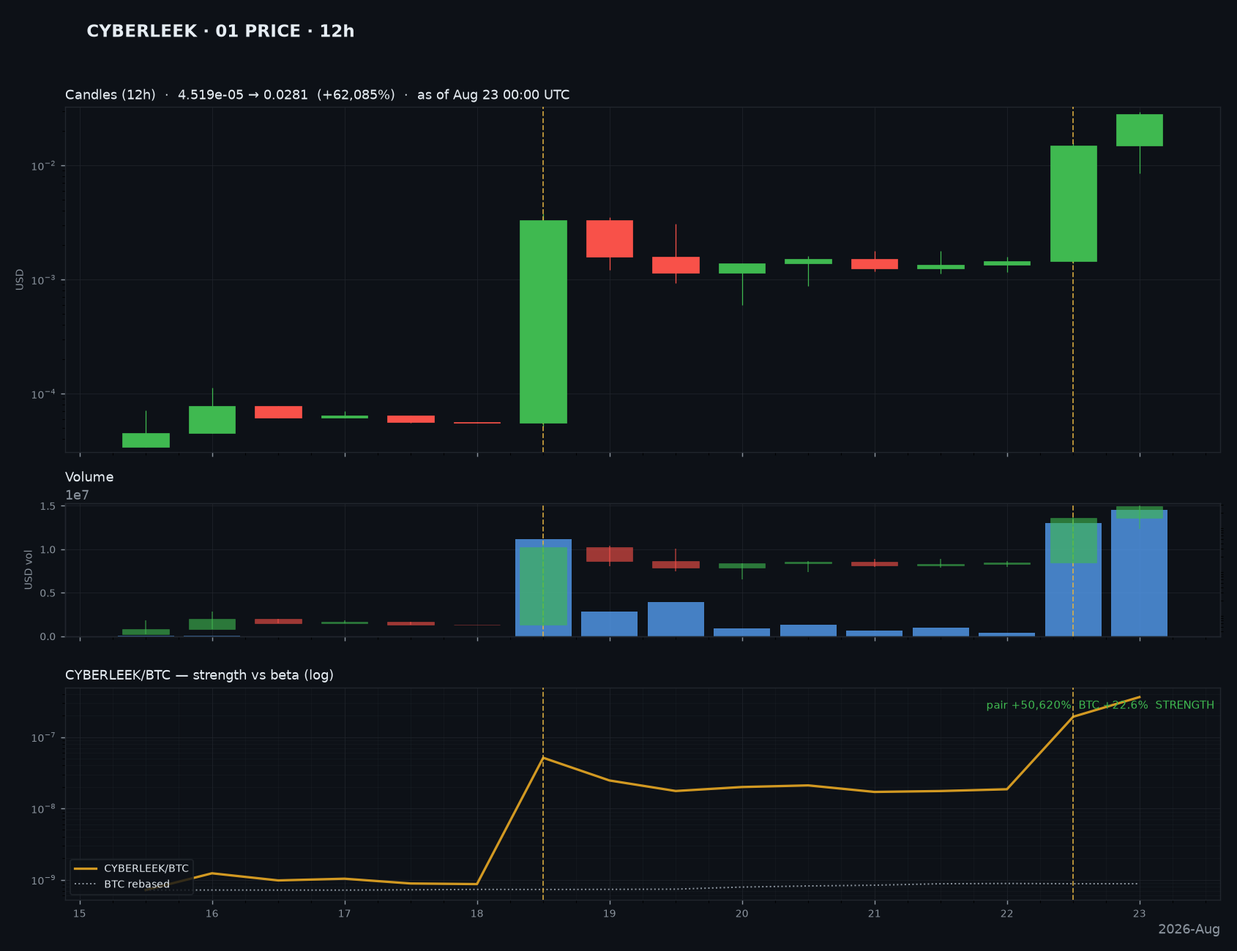
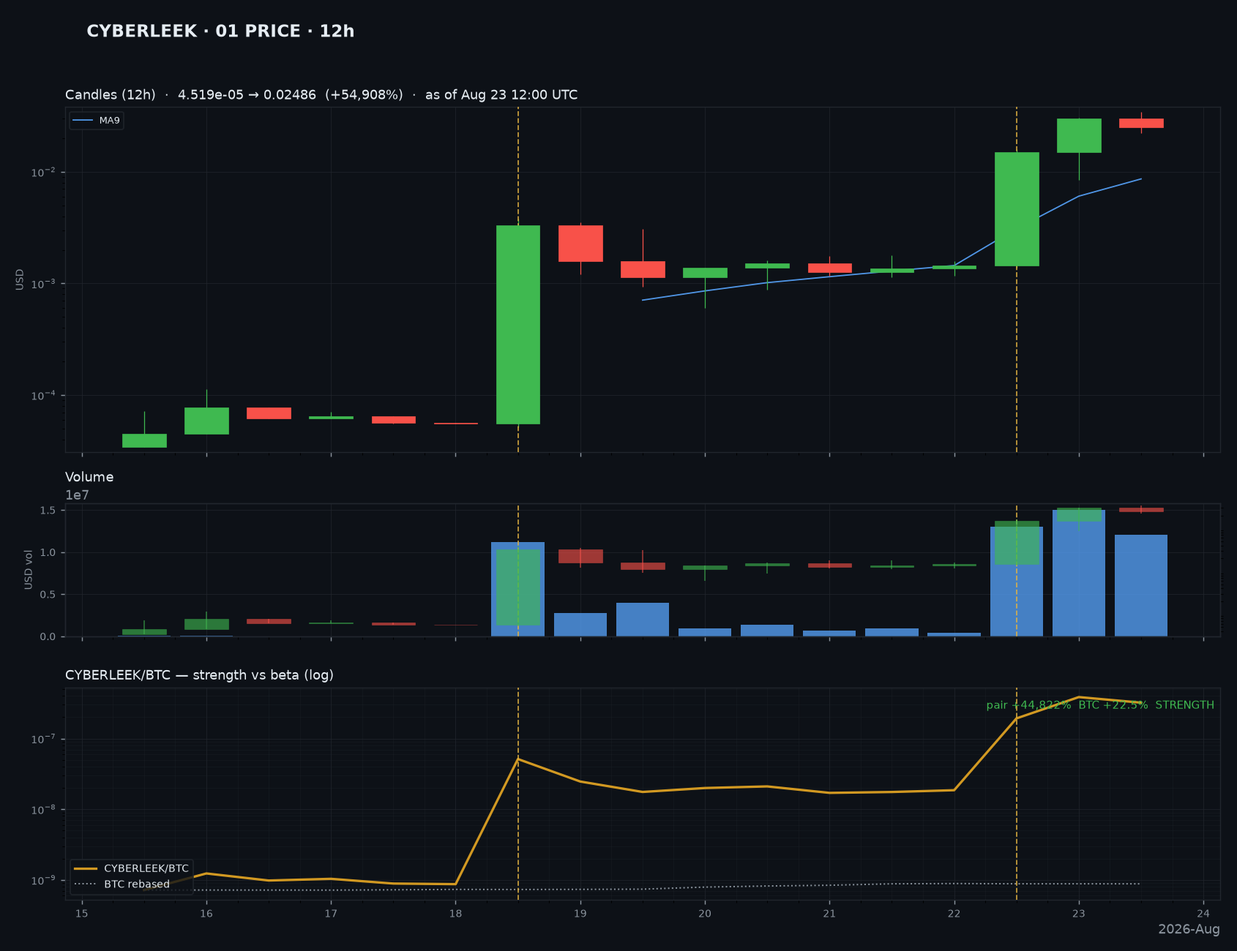
CYBERLEEK refreshed: 15m timeframe + MA9/21/50, price through Aug 23

diff --git a/index.html b/index.html
@@ -41,10 +41,10 @@ figcaption{color:#8b949e;font-size:.78rem;margin-bottom:.5rem;display:flex;justi
 <h1>⚡ Alt Analysis</h1>
 <p class="meta">Alpha Data Room · updated 2026-08-23 · consistent chart suite per token
 (01 price · 02 attention · 03 who · 04 dynamics · 05 streams) · price log-scale,
-anchored to first traded bar · price candles overlaid on every panel · build 1787486199</p>
+anchored to first traded bar · price candles overlaid on every panel · build 1787506467</p>
 
 <div class="bar"><span class="lbl">Token:</span><button class="tok" data-token="CYBERLEEK">CYBERLEEK</button><button class="tok" data-token="STONKBROKER">STONKBROKER</button><button class="tok" data-token="YOMOGI">YOMOGI</button><button class="tok" data-token="NEKO">NEKO</button>
-<span class="sep">|</span><span class="lbl">Timeframe:</span><button class="tf" data-tf="1h">1h</button><button class="tf" data-tf="4h">4h</button><button class="tf" data-tf="6h">6h</button><button class="tf" data-tf="12h">12h</button><button class="tf" data-tf="daily">daily</button><button class="tf" data-tf="special">special</button><button class="tf" data-tf="all">all</button>
+<span class="sep">|</span><span class="lbl">Timeframe:</span><button class="tf" data-tf="15m">15m</button><button class="tf" data-tf="1h">1h</button><button class="tf" data-tf="4h">4h</button><button class="tf" data-tf="6h">6h</button><button class="tf" data-tf="12h">12h</button><button class="tf" data-tf="daily">daily</button><button class="tf" data-tf="special">special</button><button class="tf" data-tf="all">all</button>
 <span class="sep">|</span><span class="lbl">View:</span>
 <button class="vw active" data-view="static">all charts</button>
 <button class="vw" data-view="interactive">interactive (hover)</button>
@@ -53,7 +53,7 @@ anchored to first traded bar · price candles overlaid on every panel · build 1
 <div id="interactive-wrap"><iframe id="ifr" src="" loading="lazy"></iframe>
 <p class="meta" style="margin:.4rem 0 0">Hover any bar or candle for its timestamp and all
 values in that bin · drag to zoom · double-click to reset</p></div>
-<div id="figs"><figure class="chart" data-token="CYBERLEEK" data-tf="12h"><figcaption>01_price_12h<span class="tag">12h</span></figcaption><a href="charts/CYBERLEEK_01_price_12h.png" target="_blank"><img src="charts/CYBERLEEK_01_price_12h.png" loading="lazy" alt="CYBERLEEK_01_price_12h.png"></a></figure><figure class="chart" data-token="CYBERLEEK" data-tf="1h"><figcaption>01_price_1h<span class="tag">1h</span></figcaption><a href="charts/CYBERLEEK_01_price_1h.png" target="_blank"><img src="charts/CYBERLEEK_01_price_1h.png" loading="lazy" alt="CYBERLEEK_01_price_1h.png"></a></figure><figure class="chart" data-token="CYBERLEEK" data-tf="4h"><figcaption>01_price_4h<span class="tag">4h</span></figcaption><a href="charts/CYBERLEEK_01_price_4h.png" target="_blank"><img src="charts/CYBERLEEK_01_price_4h.png" loading="lazy" alt="CYBERLEEK_01_price_4h.png"></a></figure><figure class="chart" data-token="CYBERLEEK" data-tf="6h"><figcaption>01_price_6h<span class="tag">6h</span></figcaption><a href="charts/CYBERLEEK_01_price_6h.png" target="_blank"><img src="charts/CYBERLEEK_01_price_6h.png" loading="lazy" alt="CYBERLEEK_01_price_6h.png"></a></figure><figure class="chart" data-token="CYBERLEEK" data-tf="daily"><figcaption>01_price_daily<span class="tag">daily</span></figcaption><a href="charts/CYBERLEEK_01_price_daily.png" target="_blank"><img src="charts/CYBERLEEK_01_price_daily.png" loading="lazy" alt="CYBERLEEK_01_price_daily.png"></a></figure><figure class="chart" data-token="CYBERLEEK" data-tf="12h"><figcaption>02_attention_12h<span class="tag">12h</span></figcaption><a href="charts/CYBERLEEK_02_attention_12h.png" target="_blank"><img src="charts/CYBERLEEK_02_attention_12h.png" loading="lazy" alt="CYBERLEEK_02_attention_12h.png"></a></figure><figure class="chart" data-token="CYBERLEEK" data-tf="1h"><figcaption>02_attention_1h<span class="tag">1h</span></figcaption><a href="charts/CYBERLEEK_02_attention_1h.png" target="_blank"><img src="charts/CYBERLEEK_02_attention_1h.png" loading="lazy" alt="CYBERLEEK_02_attention_1h.png"></a></figure><figure class="chart" data-token="CYBERLEEK" data-tf="4h"><figcaption>02_attention_4h<span class="tag">4h</span></figcaption><a href="charts/CYBERLEEK_02_attention_4h.png" target="_blank"><img src="charts/CYBERLEEK_02_attention_4h.png" loading="lazy" alt="CYBERLEEK_02_attention_4h.png"></a></figure><figure class="chart" data-token="CYBERLEEK" data-tf="6h"><figcaption>02_attention_6h<span class="tag">6h</span></figcaption><a href="charts/CYBERLEEK_02_attention_6h.png" target="_blank"><img src="charts/CYBERLEEK_02_attention_6h.png" loading="lazy" alt="CYBERLEEK_02_attention_6h.png"></a></figure><figure class="chart" data-token="CYBERLEEK" data-tf="daily"><figcaption>02_attention_daily<span class="tag">daily</span></figcaption><a href="charts/CYBERLEEK_02_attention_daily.png" target="_blank"><img src="charts/CYBERLEEK_02_attention_daily.png" loading="lazy" alt="CYBERLEEK_02_attention_daily.png"></a></figure><figure class="chart" data-token="CYBERLEEK" data-tf="12h"><figcaption>03_who_12h<span class="tag">12h</span></figcaption><a href="charts/CYBERLEEK_03_who_12h.png" target="_blank"><img src="charts/CYBERLEEK_03_who_12h.png" loading="lazy" alt="CYBERLEEK_03_who_12h.png"></a></figure><figure class="chart" data-token="CYBERLEEK" data-tf="1h"><figcaption>03_who_1h<span class="tag">1h</span></figcaption><a href="charts/CYBERLEEK_03_who_1h.png" target="_blank"><img src="charts/CYBERLEEK_03_who_1h.png" loading="lazy" alt="CYBERLEEK_03_who_1h.png"></a></figure><figure class="chart" data-token="CYBERLEEK" data-tf="4h"><figcaption>03_who_4h<span class="tag">4h</span></figcaption><a href="charts/CYBERLEEK_03_who_4h.png" target="_blank"><img src="charts/CYBERLEEK_03_who_4h.png" loading="lazy" alt="CYBERLEEK_03_who_4h.png"></a></figure><figure class="chart" data-token="CYBERLEEK" data-tf="6h"><figcaption>03_who_6h<span class="tag">6h</span></figcaption><a href="charts/CYBERLEEK_03_who_6h.png" target="_blank"><img src="charts/CYBERLEEK_03_who_6h.png" loading="lazy" alt="CYBERLEEK_03_who_6h.png"></a></figure><figure class="chart" data-token="CYBERLEEK" data-tf="daily"><figcaption>03_who_daily<span class="tag">daily</span></figcaption><a href="charts/CYBERLEEK_03_who_daily.png" target="_blank"><img src="charts/CYBERLEEK_03_who_daily.png" loading="lazy" alt="CYBERLEEK_03_who_daily.png"></a></figure><figure class="chart" data-token="CYBERLEEK" data-tf="12h"><figcaption>04_dynamics_12h<span class="tag">12h</span></figcaption><a href="charts/CYBERLEEK_04_dynamics_12h.png" target="_blank"><img src="charts/CYBERLEEK_04_dynamics_12h.png" loading="lazy" alt="CYBERLEEK_04_dynamics_12h.png"></a></figure><figure class="chart" data-token="CYBERLEEK" data-tf="1h"><figcaption>04_dynamics_1h<span class="tag">1h</span></figcaption><a href="charts/CYBERLEEK_04_dynamics_1h.png" target="_blank"><img src="charts/CYBERLEEK_04_dynamics_1h.png" loading="lazy" alt="CYBERLEEK_04_dynamics_1h.png"></a></figure><figure class="chart" data-token="CYBERLEEK" data-tf="4h"><figcaption>04_dynamics_4h<span class="tag">4h</span></figcaption><a href="charts/CYBERLEEK_04_dynamics_4h.png" target="_blank"><img src="charts/CYBERLEEK_04_dynamics_4h.png" loading="lazy" alt="CYBERLEEK_04_dynamics_4h.png"></a></figure><figure class="chart" data-token="CYBERLEEK" data-tf="6h"><figcaption>04_dynamics_6h<span class="tag">6h</span></figcaption><a href="charts/CYBERLEEK_04_dynamics_6h.png" target="_blank"><img src="charts/CYBERLEEK_04_dynamics_6h.png" loading="lazy" alt="CYBERLEEK_04_dynamics_6h.png"></a></figure><figure class="chart" data-token="CYBERLEEK" data-tf="daily"><figcaption>04_dynamics_daily<span class="tag">daily</span></figcaption><a href="charts/CYBERLEEK_04_dynamics_daily.png" target="_blank"><img src="charts/CYBERLEEK_04_dynamics_daily.png" loading="lazy" alt="CYBERLEEK_04_dynamics_daily.png"></a></figure><figure class="chart" data-token="CYBERLEEK" data-tf="12h"><figcaption>05_streams_12h<span class="tag">12h</span></figcaption><a href="charts/CYBERLEEK_05_streams_12h.png" target="_blank"><img src="charts/CYBERLEEK_05_streams_12h.png" loading="lazy" alt="CYBERLEEK_05_streams_12h.png"></a></figure><figure class="chart" data-token="CYBERLEEK" data-tf="1h"><figcaption>05_streams_1h<span class="tag">1h</span></figcaption><a href="charts/CYBERLEEK_05_streams_1h.png" target="_blank"><img src="charts/CYBERLEEK_05_streams_1h.png" loading="lazy" alt="CYBERLEEK_05_streams_1h.png"></a></figure><figure class="chart" data-token="CYBERLEEK" data-tf="4h"><figcaption>05_streams_4h<span class="tag">4h</span></figcaption><a href="charts/CYBERLEEK_05_streams_4h.png" target="_blank"><img src="charts/CYBERLEEK_05_streams_4h.png" loading="lazy" alt="CYBERLEEK_05_streams_4h.png"></a></figure><figure class="chart" data-token="CYBERLEEK" data-tf="6h"><figcaption>05_streams_6h<span class="tag">6h</span></figcaption><a href="charts/CYBERLEEK_05_streams_6h.png" target="_blank"><img src="charts/CYBERLEEK_05_streams_6h.png" loading="lazy" alt="CYBERLEEK_05_streams_6h.png"></a></figure><figure class="chart" data-token="CYBERLEEK" data-tf="daily"><figcaption>05_streams_daily<span class="tag">daily</span></figcaption><a href="charts/CYBERLEEK_05_streams_daily.png" target="_blank"><img src="charts/CYBERLEEK_05_streams_daily.png" loading="lazy" alt="CYBERLEEK_05_streams_daily.png"></a></figure><figure class="chart" data-token="CYBERLEEK" data-tf="special"><figcaption>h12_legtiming<span class="tag">special</span></figcaption><a href="charts/CYBERLEEK_h12_legtiming.png" target="_blank"><img src="charts/CYBERLEEK_h12_legtiming.png" loading="lazy" alt="CYBERLEEK_h12_legtiming.png"></a></figure><figure class="chart" data-token="CYBERLEEK" data-tf="special"><figcaption>newsline<span class="tag">special</span></figcaption><a href="charts/CYBERLEEK_newsline.png" target="_blank"><img src="charts/CYBERLEEK_newsline.png" loading="lazy" alt="CYBERLEEK_newsline.png"></a></figure><figure class="chart" data-token="CYBERLEEK" data-tf="4h"><figcaption>twostream_4h<span class="tag">4h</span></figcaption><a href="charts/CYBERLEEK_twostream_4h.png" target="_blank"><img src="charts/CYBERLEEK_twostream_4h.png" loading="lazy" alt="CYBERLEEK_twostream_4h.png"></a></figure><figure class="chart" data-token="STONKBROKER" data-tf="12h"><figcaption>01_price_12h<span class="tag">12h</span></figcaption><a href="charts/STONKBROKER_01_price_12h.png" target="_blank"><img src="charts/STONKBROKER_01_price_12h.png" loading="lazy" alt="STONKBROKER_01_price_12h.png"></a></figure><figure class="chart" data-token="STONKBROKER" data-tf="1h"><figcaption>01_price_1h<span class="tag">1h</span></figcaption><a href="charts/STONKBROKER_01_price_1h.png" target="_blank"><img src="charts/STONKBROKER_01_price_1h.png" loading="lazy" alt="STONKBROKER_01_price_1h.png"></a></figure><figure class="chart" data-token="STONKBROKER" data-tf="4h"><figcaption>01_price_4h<span class="tag">4h</span></figcaption><a href="charts/STONKBROKER_01_price_4h.png" target="_blank"><img src="charts/STONKBROKER_01_price_4h.png" loading="lazy" alt="STONKBROKER_01_price_4h.png"></a></figure><figure class="chart" data-token="STONKBROKER" data-tf="6h"><figcaption>01_price_6h<span class="tag">6h</span></figcaption><a href="charts/STONKBROKER_01_price_6h.png" target="_blank"><img src="charts/STONKBROKER_01_price_6h.png" loading="lazy" alt="STONKBROKER_01_price_6h.png"></a></figure><figure class="chart" data-token="STONKBROKER" data-tf="daily"><figcaption>01_price_daily<span class="tag">daily</span></figcaption><a href="charts/STONKBROKER_01_price_daily.png" target="_blank"><img src="charts/STONKBROKER_01_price_daily.png" loading="lazy" alt="STONKBROKER_01_price_daily.png"></a></figure><figure class="chart" data-token="STONKBROKER" data-tf="12h"><figcaption>02_attention_12h<span class="tag">12h</span></figcaption><a href="charts/STONKBROKER_02_attention_12h.png" target="_blank"><img src="charts/STONKBROKER_02_attention_12h.png" loading="lazy" alt="STONKBROKER_02_attention_12h.png"></a></figure><figure class="chart" data-token="STONKBROKER" data-tf="1h"><figcaption>02_attention_1h<span class="tag">1h</span></figcaption><a href="charts/STONKBROKER_02_attention_1h.png" target="_blank"><img src="charts/STONKBROKER_02_attention_1h.png" loading="lazy" alt="STONKBROKER_02_attention_1h.png"></a></figure><figure class="chart" data-token="STONKBROKER" data-tf="4h"><figcaption>02_attention_4h<span class="tag">4h</span></figcaption><a href="charts/STONKBROKER_02_attention_4h.png" target="_blank"><img src="charts/STONKBROKER_02_attention_4h.png" loading="lazy" alt="STONKBROKER_02_attention_4h.png"></a></figure><figure class="chart" data-token="STONKBROKER" data-tf="6h"><figcaption>02_attention_6h<span class="tag">6h</span></figcaption><a href="charts/STONKBROKER_02_attention_6h.png" target="_blank"><img src="charts/STONKBROKER_02_attention_6h.png" loading="lazy" alt="STONKBROKER_02_attention_6h.png"></a></figure><figure class="chart" data-token="STONKBROKER" data-tf="daily"><figcaption>02_attention_daily<span class="tag">daily</span></figcaption><a href="charts/STONKBROKER_02_attention_daily.png" target="_blank"><img src="charts/STONKBROKER_02_attention_daily.png" loading="lazy" alt="STONKBROKER_02_attention_daily.png"></a></figure><figure class="chart" data-token="STONKBROKER" data-tf="12h"><figcaption>03_who_12h<span class="tag">12h</span></figcaption><a href="charts/STONKBROKER_03_who_12h.png" target="_blank"><img src="charts/STONKBROKER_03_who_12h.png" loading="lazy" alt="STONKBROKER_03_who_12h.png"></a></figure><figure class="chart" data-token="STONKBROKER" data-tf="1h"><figcaption>03_who_1h<span class="tag">1h</span></figcaption><a href="charts/STONKBROKER_03_who_1h.png" target="_blank"><img src="charts/STONKBROKER_03_who_1h.png" loading="lazy" alt="STONKBROKER_03_who_1h.png"></a></figure><figure class="chart" data-token="STONKBROKER" data-tf="4h"><figcaption>03_who_4h<span class="tag">4h</span></figcaption><a href="charts/STONKBROKER_03_who_4h.png" target="_blank"><img src="charts/STONKBROKER_03_who_4h.png" loading="lazy" alt="STONKBROKER_03_who_4h.png"></a></figure><figure class="chart" data-token="STONKBROKER" data-tf="6h"><figcaption>03_who_6h<span class="tag">6h</span></figcaption><a href="charts/STONKBROKER_03_who_6h.png" target="_blank"><img src="charts/STONKBROKER_03_who_6h.png" loading="lazy" alt="STONKBROKER_03_who_6h.png"></a></figure><figure class="chart" data-token="STONKBROKER" data-tf="daily"><figcaption>03_who_daily<span class="tag">daily</span></figcaption><a href="charts/STONKBROKER_03_who_daily.png" target="_blank"><img src="charts/STONKBROKER_03_who_daily.png" loading="lazy" alt="STONKBROKER_03_who_daily.png"></a></figure><figure class="chart" data-token="STONKBROKER" data-tf="12h"><figcaption>04_dynamics_12h<span class="tag">12h</span></figcaption><a href="charts/STONKBROKER_04_dynamics_12h.png" target="_blank"><img src="charts/STONKBROKER_04_dynamics_12h.png" loading="lazy" alt="STONKBROKER_04_dynamics_12h.png"></a></figure><figure class="chart" data-token="STONKBROKER" data-tf="1h"><figcaption>04_dynamics_1h<span class="tag">1h</span></figcaption><a href="charts/STONKBROKER_04_dynamics_1h.png" target="_blank"><img src="charts/STONKBROKER_04_dynamics_1h.png" loading="lazy" alt="STONKBROKER_04_dynamics_1h.png"></a></figure><figure class="chart" data-token="STONKBROKER" data-tf="4h"><figcaption>04_dynamics_4h<span class="tag">4h</span></figcaption><a href="charts/STONKBROKER_04_dynamics_4h.png" target="_blank"><img src="charts/STONKBROKER_04_dynamics_4h.png" loading="lazy" alt="STONKBROKER_04_dynamics_4h.png"></a></figure><figure class="chart" data-token="STONKBROKER" data-tf="6h"><figcaption>04_dynamics_6h<span class="tag">6h</span></figcaption><a href="charts/STONKBROKER_04_dynamics_6h.png" target="_blank"><img src="charts/STONKBROKER_04_dynamics_6h.png" loading="lazy" alt="STONKBROKER_04_dynamics_6h.png"></a></figure><figure class="chart" data-token="STONKBROKER" data-tf="daily"><figcaption>04_dynamics_daily<span class="tag">daily</span></figcaption><a href="charts/STONKBROKER_04_dynamics_daily.png" target="_blank"><img src="charts/STONKBROKER_04_dynamics_daily.png" loading="lazy" alt="STONKBROKER_04_dynamics_daily.png"></a></figure><figure class="chart" data-token="YOMOGI" data-tf="1h"><figcaption>01_price_1h<span class="tag">1h</span></figcaption><a href="charts/YOMOGI_01_price_1h.png" target="_blank"><img src="charts/YOMOGI_01_price_1h.png" loading="lazy" alt="YOMOGI_01_price_1h.png"></a></figure><figure class="chart" data-token="YOMOGI" data-tf="1h"><figcaption>02_attention_1h<span class="tag">1h</span></figcaption><a href="charts/YOMOGI_02_attention_1h.png" target="_blank"><img src="charts/YOMOGI_02_attention_1h.png" loading="lazy" alt="YOMOGI_02_attention_1h.png"></a></figure><figure class="chart" data-token="YOMOGI" data-tf="1h"><figcaption>03_who_1h<span class="tag">1h</span></figcaption><a href="charts/YOMOGI_03_who_1h.png" target="_blank"><img src="charts/YOMOGI_03_who_1h.png" loading="lazy" alt="YOMOGI_03_who_1h.png"></a></figure><figure class="chart" data-token="YOMOGI" data-tf="1h"><figcaption>04_dynamics_1h<span class="tag">1h</span></figcaption><a href="charts/YOMOGI_04_dynamics_1h.png" target="_blank"><img src="charts/YOMOGI_04_dynamics_1h.png" loading="lazy" alt="YOMOGI_04_dynamics_1h.png"></a></figure><figure class="chart" data-token="YOMOGI" data-tf="1h"><figcaption>05_streams_1h<span class="tag">1h</span></figcaption><a href="charts/YOMOGI_05_streams_1h.png" target="_blank"><img src="charts/YOMOGI_05_streams_1h.png" loading="lazy" alt="YOMOGI_05_streams_1h.png"></a></figure><figure class="chart" data-token="YOMOGI" data-tf="1h"><figcaption>content_1h<span class="tag">1h</span></figcaption><a href="charts/YOMOGI_content_1h.png" target="_blank"><img src="charts/YOMOGI_content_1h.png" loading="lazy" alt="YOMOGI_content_1h.png"></a></figure><figure class="chart" data-token="YOMOGI" data-tf="1h"><figcaption>social_1d_1h<span class="tag">1h</span></figcaption><a href="charts/YOMOGI_social_1d_1h.png" target="_blank"><img src="charts/YOMOGI_social_1d_1h.png" loading="lazy" alt="YOMOGI_social_1d_1h.png"></a></figure><figure class="chart" data-token="YOMOGI" data-tf="1h"><figcaption>twostream_1h<span class="tag">1h</span></figcaption><a href="charts/YOMOGI_twostream_1h.png" target="_blank"><img src="charts/YOMOGI_twostream_1h.png" loading="lazy" alt="YOMOGI_twostream_1h.png"></a></figure><figure class="chart" data-token="NEKO" data-tf="1h"><figcaption>01_price_1h<span class="tag">1h</span></figcaption><a href="charts/NEKO_01_price_1h.png" target="_blank"><img src="charts/NEKO_01_price_1h.png" loading="lazy" alt="NEKO_01_price_1h.png"></a></figure><figure class="chart" data-token="NEKO" data-tf="4h"><figcaption>01_price_4h<span class="tag">4h</span></figcaption><a href="charts/NEKO_01_price_4h.png" target="_blank"><img src="charts/NEKO_01_price_4h.png" loading="lazy" alt="NEKO_01_price_4h.png"></a></figure><figure class="chart" data-token="NEKO" data-tf="1h"><figcaption>02_attention_1h<span class="tag">1h</span></figcaption><a href="charts/NEKO_02_attention_1h.png" target="_blank"><img src="charts/NEKO_02_attention_1h.png" loading="lazy" alt="NEKO_02_attention_1h.png"></a></figure><figure class="chart" data-token="NEKO" data-tf="4h"><figcaption>02_attention_4h<span class="tag">4h</span></figcaption><a href="charts/NEKO_02_attention_4h.png" target="_blank"><img src="charts/NEKO_02_attention_4h.png" loading="lazy" alt="NEKO_02_attention_4h.png"></a></figure><figure class="chart" data-token="NEKO" data-tf="1h"><figcaption>03_who_1h<span class="tag">1h</span></figcaption><a href="charts/NEKO_03_who_1h.png" target="_blank"><img src="charts/NEKO_03_who_1h.png" loading="lazy" alt="NEKO_03_who_1h.png"></a></figure><figure class="chart" data-token="NEKO" data-tf="4h"><figcaption>03_who_4h<span class="tag">4h</span></figcaption><a href="charts/NEKO_03_who_4h.png" target="_blank"><img src="charts/NEKO_03_who_4h.png" loading="lazy" alt="NEKO_03_who_4h.png"></a></figure><figure class="chart" data-token="NEKO" data-tf="1h"><figcaption>04_dynamics_1h<span class="tag">1h</span></figcaption><a href="charts/NEKO_04_dynamics_1h.png" target="_blank"><img src="charts/NEKO_04_dynamics_1h.png" loading="lazy" alt="NEKO_04_dynamics_1h.png"></a></figure><figure class="chart" data-token="NEKO" data-tf="4h"><figcaption>04_dynamics_4h<span class="tag">4h</span></figcaption><a href="charts/NEKO_04_dynamics_4h.png" target="_blank"><img src="charts/NEKO_04_dynamics_4h.png" loading="lazy" alt="NEKO_04_dynamics_4h.png"></a></figure><figure class="chart" data-token="NEKO" data-tf="1h"><figcaption>content_1h<span class="tag">1h</span></figcaption><a href="charts/NEKO_content_1h.png" target="_blank"><img src="charts/NEKO_content_1h.png" loading="lazy" alt="NEKO_content_1h.png"></a></figure><figure class="chart" data-token="NEKO" data-tf="1h"><figcaption>social_2d_1h<span class="tag">1h</span></figcaption><a href="charts/NEKO_social_2d_1h.png" target="_blank"><img src="charts/NEKO_social_2d_1h.png" loading="lazy" alt="NEKO_social_2d_1h.png"></a></figure></div>
+<div id="figs"><figure class="chart" data-token="CYBERLEEK" data-tf="12h"><figcaption>01_price_12h<span class="tag">12h</span></figcaption><a href="charts/CYBERLEEK_01_price_12h.png" target="_blank"><img src="charts/CYBERLEEK_01_price_12h.png" loading="lazy" alt="CYBERLEEK_01_price_12h.png"></a></figure><figure class="chart" data-token="CYBERLEEK" data-tf="15m"><figcaption>01_price_15m<span class="tag">15m</span></figcaption><a href="charts/CYBERLEEK_01_price_15m.png" target="_blank"><img src="charts/CYBERLEEK_01_price_15m.png" loading="lazy" alt="CYBERLEEK_01_price_15m.png"></a></figure><figure class="chart" data-token="CYBERLEEK" data-tf="1h"><figcaption>01_price_1h<span class="tag">1h</span></figcaption><a href="charts/CYBERLEEK_01_price_1h.png" target="_blank"><img src="charts/CYBERLEEK_01_price_1h.png" loading="lazy" alt="CYBERLEEK_01_price_1h.png"></a></figure><figure class="chart" data-token="CYBERLEEK" data-tf="4h"><figcaption>01_price_4h<span class="tag">4h</span></figcaption><a href="charts/CYBERLEEK_01_price_4h.png" target="_blank"><img src="charts/CYBERLEEK_01_price_4h.png" loading="lazy" alt="CYBERLEEK_01_price_4h.png"></a></figure><figure class="chart" data-token="CYBERLEEK" data-tf="6h"><figcaption>01_price_6h<span class="tag">6h</span></figcaption><a href="charts/CYBERLEEK_01_price_6h.png" target="_blank"><img src="charts/CYBERLEEK_01_price_6h.png" loading="lazy" alt="CYBERLEEK_01_price_6h.png"></a></figure><figure class="chart" data-token="CYBERLEEK" data-tf="daily"><figcaption>01_price_daily<span class="tag">daily</span></figcaption><a href="charts/CYBERLEEK_01_price_daily.png" target="_blank"><img src="charts/CYBERLEEK_01_price_daily.png" loading="lazy" alt="CYBERLEEK_01_price_daily.png"></a></figure><figure class="chart" data-token="CYBERLEEK" data-tf="12h"><figcaption>02_attention_12h<span class="tag">12h</span></figcaption><a href="charts/CYBERLEEK_02_attention_12h.png" target="_blank"><img src="charts/CYBERLEEK_02_attention_12h.png" loading="lazy" alt="CYBERLEEK_02_attention_12h.png"></a></figure><figure class="chart" data-token="CYBERLEEK" data-tf="15m"><figcaption>02_attention_15m<span class="tag">15m</span></figcaption><a href="charts/CYBERLEEK_02_attention_15m.png" target="_blank"><img src="charts/CYBERLEEK_02_attention_15m.png" loading="lazy" alt="CYBERLEEK_02_attention_15m.png"></a></figure><figure class="chart" data-token="CYBERLEEK" data-tf="1h"><figcaption>02_attention_1h<span class="tag">1h</span></figcaption><a href="charts/CYBERLEEK_02_attention_1h.png" target="_blank"><img src="charts/CYBERLEEK_02_attention_1h.png" loading="lazy" alt="CYBERLEEK_02_attention_1h.png"></a></figure><figure class="chart" data-token="CYBERLEEK" data-tf="4h"><figcaption>02_attention_4h<span class="tag">4h</span></figcaption><a href="charts/CYBERLEEK_02_attention_4h.png" target="_blank"><img src="charts/CYBERLEEK_02_attention_4h.png" loading="lazy" alt="CYBERLEEK_02_attention_4h.png"></a></figure><figure class="chart" data-token="CYBERLEEK" data-tf="6h"><figcaption>02_attention_6h<span class="tag">6h</span></figcaption><a href="charts/CYBERLEEK_02_attention_6h.png" target="_blank"><img src="charts/CYBERLEEK_02_attention_6h.png" loading="lazy" alt="CYBERLEEK_02_attention_6h.png"></a></figure><figure class="chart" data-token="CYBERLEEK" data-tf="daily"><figcaption>02_attention_daily<span class="tag">daily</span></figcaption><a href="charts/CYBERLEEK_02_attention_daily.png" target="_blank"><img src="charts/CYBERLEEK_02_attention_daily.png" loading="lazy" alt="CYBERLEEK_02_attention_daily.png"></a></figure><figure class="chart" data-token="CYBERLEEK" data-tf="12h"><figcaption>03_who_12h<span class="tag">12h</span></figcaption><a href="charts/CYBERLEEK_03_who_12h.png" target="_blank"><img src="charts/CYBERLEEK_03_who_12h.png" loading="lazy" alt="CYBERLEEK_03_who_12h.png"></a></figure><figure class="chart" data-token="CYBERLEEK" data-tf="15m"><figcaption>03_who_15m<span class="tag">15m</span></figcaption><a href="charts/CYBERLEEK_03_who_15m.png" target="_blank"><img src="charts/CYBERLEEK_03_who_15m.png" loading="lazy" alt="CYBERLEEK_03_who_15m.png"></a></figure><figure class="chart" data-token="CYBERLEEK" data-tf="1h"><figcaption>03_who_1h<span class="tag">1h</span></figcaption><a href="charts/CYBERLEEK_03_who_1h.png" target="_blank"><img src="charts/CYBERLEEK_03_who_1h.png" loading="lazy" alt="CYBERLEEK_03_who_1h.png"></a></figure><figure class="chart" data-token="CYBERLEEK" data-tf="4h"><figcaption>03_who_4h<span class="tag">4h</span></figcaption><a href="charts/CYBERLEEK_03_who_4h.png" target="_blank"><img src="charts/CYBERLEEK_03_who_4h.png" loading="lazy" alt="CYBERLEEK_03_who_4h.png"></a></figure><figure class="chart" data-token="CYBERLEEK" data-tf="6h"><figcaption>03_who_6h<span class="tag">6h</span></figcaption><a href="charts/CYBERLEEK_03_who_6h.png" target="_blank"><img src="charts/CYBERLEEK_03_who_6h.png" loading="lazy" alt="CYBERLEEK_03_who_6h.png"></a></figure><figure class="chart" data-token="CYBERLEEK" data-tf="daily"><figcaption>03_who_daily<span class="tag">daily</span></figcaption><a href="charts/CYBERLEEK_03_who_daily.png" target="_blank"><img src="charts/CYBERLEEK_03_who_daily.png" loading="lazy" alt="CYBERLEEK_03_who_daily.png"></a></figure><figure class="chart" data-token="CYBERLEEK" data-tf="12h"><figcaption>04_dynamics_12h<span class="tag">12h</span></figcaption><a href="charts/CYBERLEEK_04_dynamics_12h.png" target="_blank"><img src="charts/CYBERLEEK_04_dynamics_12h.png" loading="lazy" alt="CYBERLEEK_04_dynamics_12h.png"></a></figure><figure class="chart" data-token="CYBERLEEK" data-tf="15m"><figcaption>04_dynamics_15m<span class="tag">15m</span></figcaption><a href="charts/CYBERLEEK_04_dynamics_15m.png" target="_blank"><img src="charts/CYBERLEEK_04_dynamics_15m.png" loading="lazy" alt="CYBERLEEK_04_dynamics_15m.png"></a></figure><figure class="chart" data-token="CYBERLEEK" data-tf="1h"><figcaption>04_dynamics_1h<span class="tag">1h</span></figcaption><a href="charts/CYBERLEEK_04_dynamics_1h.png" target="_blank"><img src="charts/CYBERLEEK_04_dynamics_1h.png" loading="lazy" alt="CYBERLEEK_04_dynamics_1h.png"></a></figure><figure class="chart" data-token="CYBERLEEK" data-tf="4h"><figcaption>04_dynamics_4h<span class="tag">4h</span></figcaption><a href="charts/CYBERLEEK_04_dynamics_4h.png" target="_blank"><img src="charts/CYBERLEEK_04_dynamics_4h.png" loading="lazy" alt="CYBERLEEK_04_dynamics_4h.png"></a></figure><figure class="chart" data-token="CYBERLEEK" data-tf="6h"><figcaption>04_dynamics_6h<span class="tag">6h</span></figcaption><a href="charts/CYBERLEEK_04_dynamics_6h.png" target="_blank"><img src="charts/CYBERLEEK_04_dynamics_6h.png" loading="lazy" alt="CYBERLEEK_04_dynamics_6h.png"></a></figure><figure class="chart" data-token="CYBERLEEK" data-tf="daily"><figcaption>04_dynamics_daily<span class="tag">daily</span></figcaption><a href="charts/CYBERLEEK_04_dynamics_daily.png" target="_blank"><img src="charts/CYBERLEEK_04_dynamics_daily.png" loading="lazy" alt="CYBERLEEK_04_dynamics_daily.png"></a></figure><figure class="chart" data-token="CYBERLEEK" data-tf="12h"><figcaption>05_streams_12h<span class="tag">12h</span></figcaption><a href="charts/CYBERLEEK_05_streams_12h.png" target="_blank"><img src="charts/CYBERLEEK_05_streams_12h.png" loading="lazy" alt="CYBERLEEK_05_streams_12h.png"></a></figure><figure class="chart" data-token="CYBERLEEK" data-tf="15m"><figcaption>05_streams_15m<span class="tag">15m</span></figcaption><a href="charts/CYBERLEEK_05_streams_15m.png" target="_blank"><img src="charts/CYBERLEEK_05_streams_15m.png" loading="lazy" alt="CYBERLEEK_05_streams_15m.png"></a></figure><figure class="chart" data-token="CYBERLEEK" data-tf="1h"><figcaption>05_streams_1h<span class="tag">1h</span></figcaption><a href="charts/CYBERLEEK_05_streams_1h.png" target="_blank"><img src="charts/CYBERLEEK_05_streams_1h.png" loading="lazy" alt="CYBERLEEK_05_streams_1h.png"></a></figure><figure class="chart" data-token="CYBERLEEK" data-tf="4h"><figcaption>05_streams_4h<span class="tag">4h</span></figcaption><a href="charts/CYBERLEEK_05_streams_4h.png" target="_blank"><img src="charts/CYBERLEEK_05_streams_4h.png" loading="lazy" alt="CYBERLEEK_05_streams_4h.png"></a></figure><figure class="chart" data-token="CYBERLEEK" data-tf="6h"><figcaption>05_streams_6h<span class="tag">6h</span></figcaption><a href="charts/CYBERLEEK_05_streams_6h.png" target="_blank"><img src="charts/CYBERLEEK_05_streams_6h.png" loading="lazy" alt="CYBERLEEK_05_streams_6h.png"></a></figure><figure class="chart" data-token="CYBERLEEK" data-tf="daily"><figcaption>05_streams_daily<span class="tag">daily</span></figcaption><a href="charts/CYBERLEEK_05_streams_daily.png" target="_blank"><img src="charts/CYBERLEEK_05_streams_daily.png" loading="lazy" alt="CYBERLEEK_05_streams_daily.png"></a></figure><figure class="chart" data-token="CYBERLEEK" data-tf="special"><figcaption>h12_legtiming<span class="tag">special</span></figcaption><a href="charts/CYBERLEEK_h12_legtiming.png" target="_blank"><img src="charts/CYBERLEEK_h12_legtiming.png" loading="lazy" alt="CYBERLEEK_h12_legtiming.png"></a></figure><figure class="chart" data-token="CYBERLEEK" data-tf="special"><figcaption>newsline<span class="tag">special</span></figcaption><a href="charts/CYBERLEEK_newsline.png" target="_blank"><img src="charts/CYBERLEEK_newsline.png" loading="lazy" alt="CYBERLEEK_newsline.png"></a></figure><figure class="chart" data-token="CYBERLEEK" data-tf="4h"><figcaption>twostream_4h<span class="tag">4h</span></figcaption><a href="charts/CYBERLEEK_twostream_4h.png" target="_blank"><img src="charts/CYBERLEEK_twostream_4h.png" loading="lazy" alt="CYBERLEEK_twostream_4h.png"></a></figure><figure class="chart" data-token="STONKBROKER" data-tf="12h"><figcaption>01_price_12h<span class="tag">12h</span></figcaption><a href="charts/STONKBROKER_01_price_12h.png" target="_blank"><img src="charts/STONKBROKER_01_price_12h.png" loading="lazy" alt="STONKBROKER_01_price_12h.png"></a></figure><figure class="chart" data-token="STONKBROKER" data-tf="1h"><figcaption>01_price_1h<span class="tag">1h</span></figcaption><a href="charts/STONKBROKER_01_price_1h.png" target="_blank"><img src="charts/STONKBROKER_01_price_1h.png" loading="lazy" alt="STONKBROKER_01_price_1h.png"></a></figure><figure class="chart" data-token="STONKBROKER" data-tf="4h"><figcaption>01_price_4h<span class="tag">4h</span></figcaption><a href="charts/STONKBROKER_01_price_4h.png" target="_blank"><img src="charts/STONKBROKER_01_price_4h.png" loading="lazy" alt="STONKBROKER_01_price_4h.png"></a></figure><figure class="chart" data-token="STONKBROKER" data-tf="6h"><figcaption>01_price_6h<span class="tag">6h</span></figcaption><a href="charts/STONKBROKER_01_price_6h.png" target="_blank"><img src="charts/STONKBROKER_01_price_6h.png" loading="lazy" alt="STONKBROKER_01_price_6h.png"></a></figure><figure class="chart" data-token="STONKBROKER" data-tf="daily"><figcaption>01_price_daily<span class="tag">daily</span></figcaption><a href="charts/STONKBROKER_01_price_daily.png" target="_blank"><img src="charts/STONKBROKER_01_price_daily.png" loading="lazy" alt="STONKBROKER_01_price_daily.png"></a></figure><figure class="chart" data-token="STONKBROKER" data-tf="12h"><figcaption>02_attention_12h<span class="tag">12h</span></figcaption><a href="charts/STONKBROKER_02_attention_12h.png" target="_blank"><img src="charts/STONKBROKER_02_attention_12h.png" loading="lazy" alt="STONKBROKER_02_attention_12h.png"></a></figure><figure class="chart" data-token="STONKBROKER" data-tf="1h"><figcaption>02_attention_1h<span class="tag">1h</span></figcaption><a href="charts/STONKBROKER_02_attention_1h.png" target="_blank"><img src="charts/STONKBROKER_02_attention_1h.png" loading="lazy" alt="STONKBROKER_02_attention_1h.png"></a></figure><figure class="chart" data-token="STONKBROKER" data-tf="4h"><figcaption>02_attention_4h<span class="tag">4h</span></figcaption><a href="charts/STONKBROKER_02_attention_4h.png" target="_blank"><img src="charts/STONKBROKER_02_attention_4h.png" loading="lazy" alt="STONKBROKER_02_attention_4h.png"></a></figure><figure class="chart" data-token="STONKBROKER" data-tf="6h"><figcaption>02_attention_6h<span class="tag">6h</span></figcaption><a href="charts/STONKBROKER_02_attention_6h.png" target="_blank"><img src="charts/STONKBROKER_02_attention_6h.png" loading="lazy" alt="STONKBROKER_02_attention_6h.png"></a></figure><figure class="chart" data-token="STONKBROKER" data-tf="daily"><figcaption>02_attention_daily<span class="tag">daily</span></figcaption><a href="charts/STONKBROKER_02_attention_daily.png" target="_blank"><img src="charts/STONKBROKER_02_attention_daily.png" loading="lazy" alt="STONKBROKER_02_attention_daily.png"></a></figure><figure class="chart" data-token="STONKBROKER" data-tf="12h"><figcaption>03_who_12h<span class="tag">12h</span></figcaption><a href="charts/STONKBROKER_03_who_12h.png" target="_blank"><img src="charts/STONKBROKER_03_who_12h.png" loading="lazy" alt="STONKBROKER_03_who_12h.png"></a></figure><figure class="chart" data-token="STONKBROKER" data-tf="1h"><figcaption>03_who_1h<span class="tag">1h</span></figcaption><a href="charts/STONKBROKER_03_who_1h.png" target="_blank"><img src="charts/STONKBROKER_03_who_1h.png" loading="lazy" alt="STONKBROKER_03_who_1h.png"></a></figure><figure class="chart" data-token="STONKBROKER" data-tf="4h"><figcaption>03_who_4h<span class="tag">4h</span></figcaption><a href="charts/STONKBROKER_03_who_4h.png" target="_blank"><img src="charts/STONKBROKER_03_who_4h.png" loading="lazy" alt="STONKBROKER_03_who_4h.png"></a></figure><figure class="chart" data-token="STONKBROKER" data-tf="6h"><figcaption>03_who_6h<span class="tag">6h</span></figcaption><a href="charts/STONKBROKER_03_who_6h.png" target="_blank"><img src="charts/STONKBROKER_03_who_6h.png" loading="lazy" alt="STONKBROKER_03_who_6h.png"></a></figure><figure class="chart" data-token="STONKBROKER" data-tf="daily"><figcaption>03_who_daily<span class="tag">daily</span></figcaption><a href="charts/STONKBROKER_03_who_daily.png" target="_blank"><img src="charts/STONKBROKER_03_who_daily.png" loading="lazy" alt="STONKBROKER_03_who_daily.png"></a></figure><figure class="chart" data-token="STONKBROKER" data-tf="12h"><figcaption>04_dynamics_12h<span class="tag">12h</span></figcaption><a href="charts/STONKBROKER_04_dynamics_12h.png" target="_blank"><img src="charts/STONKBROKER_04_dynamics_12h.png" loading="lazy" alt="STONKBROKER_04_dynamics_12h.png"></a></figure><figure class="chart" data-token="STONKBROKER" data-tf="1h"><figcaption>04_dynamics_1h<span class="tag">1h</span></figcaption><a href="charts/STONKBROKER_04_dynamics_1h.png" target="_blank"><img src="charts/STONKBROKER_04_dynamics_1h.png" loading="lazy" alt="STONKBROKER_04_dynamics_1h.png"></a></figure><figure class="chart" data-token="STONKBROKER" data-tf="4h"><figcaption>04_dynamics_4h<span class="tag">4h</span></figcaption><a href="charts/STONKBROKER_04_dynamics_4h.png" target="_blank"><img src="charts/STONKBROKER_04_dynamics_4h.png" loading="lazy" alt="STONKBROKER_04_dynamics_4h.png"></a></figure><figure class="chart" data-token="STONKBROKER" data-tf="6h"><figcaption>04_dynamics_6h<span class="tag">6h</span></figcaption><a href="charts/STONKBROKER_04_dynamics_6h.png" target="_blank"><img src="charts/STONKBROKER_04_dynamics_6h.png" loading="lazy" alt="STONKBROKER_04_dynamics_6h.png"></a></figure><figure class="chart" data-token="STONKBROKER" data-tf="daily"><figcaption>04_dynamics_daily<span class="tag">daily</span></figcaption><a href="charts/STONKBROKER_04_dynamics_daily.png" target="_blank"><img src="charts/STONKBROKER_04_dynamics_daily.png" loading="lazy" alt="STONKBROKER_04_dynamics_daily.png"></a></figure><figure class="chart" data-token="YOMOGI" data-tf="1h"><figcaption>01_price_1h<span class="tag">1h</span></figcaption><a href="charts/YOMOGI_01_price_1h.png" target="_blank"><img src="charts/YOMOGI_01_price_1h.png" loading="lazy" alt="YOMOGI_01_price_1h.png"></a></figure><figure class="chart" data-token="YOMOGI" data-tf="1h"><figcaption>02_attention_1h<span class="tag">1h</span></figcaption><a href="charts/YOMOGI_02_attention_1h.png" target="_blank"><img src="charts/YOMOGI_02_attention_1h.png" loading="lazy" alt="YOMOGI_02_attention_1h.png"></a></figure><figure class="chart" data-token="YOMOGI" data-tf="1h"><figcaption>03_who_1h<span class="tag">1h</span></figcaption><a href="charts/YOMOGI_03_who_1h.png" target="_blank"><img src="charts/YOMOGI_03_who_1h.png" loading="lazy" alt="YOMOGI_03_who_1h.png"></a></figure><figure class="chart" data-token="YOMOGI" data-tf="1h"><figcaption>04_dynamics_1h<span class="tag">1h</span></figcaption><a href="charts/YOMOGI_04_dynamics_1h.png" target="_blank"><img src="charts/YOMOGI_04_dynamics_1h.png" loading="lazy" alt="YOMOGI_04_dynamics_1h.png"></a></figure><figure class="chart" data-token="YOMOGI" data-tf="1h"><figcaption>05_streams_1h<span class="tag">1h</span></figcaption><a href="charts/YOMOGI_05_streams_1h.png" target="_blank"><img src="charts/YOMOGI_05_streams_1h.png" loading="lazy" alt="YOMOGI_05_streams_1h.png"></a></figure><figure class="chart" data-token="YOMOGI" data-tf="1h"><figcaption>content_1h<span class="tag">1h</span></figcaption><a href="charts/YOMOGI_content_1h.png" target="_blank"><img src="charts/YOMOGI_content_1h.png" loading="lazy" alt="YOMOGI_content_1h.png"></a></figure><figure class="chart" data-token="YOMOGI" data-tf="1h"><figcaption>social_1d_1h<span class="tag">1h</span></figcaption><a href="charts/YOMOGI_social_1d_1h.png" target="_blank"><img src="charts/YOMOGI_social_1d_1h.png" loading="lazy" alt="YOMOGI_social_1d_1h.png"></a></figure><figure class="chart" data-token="YOMOGI" data-tf="1h"><figcaption>twostream_1h<span class="tag">1h</span></figcaption><a href="charts/YOMOGI_twostream_1h.png" target="_blank"><img src="charts/YOMOGI_twostream_1h.png" loading="lazy" alt="YOMOGI_twostream_1h.png"></a></figure><figure class="chart" data-token="NEKO" data-tf="1h"><figcaption>01_price_1h<span class="tag">1h</span></figcaption><a href="charts/NEKO_01_price_1h.png" target="_blank"><img src="charts/NEKO_01_price_1h.png" loading="lazy" alt="NEKO_01_price_1h.png"></a></figure><figure class="chart" data-token="NEKO" data-tf="4h"><figcaption>01_price_4h<span class="tag">4h</span></figcaption><a href="charts/NEKO_01_price_4h.png" target="_blank"><img src="charts/NEKO_01_price_4h.png" loading="lazy" alt="NEKO_01_price_4h.png"></a></figure><figure class="chart" data-token="NEKO" data-tf="1h"><figcaption>02_attention_1h<span class="tag">1h</span></figcaption><a href="charts/NEKO_02_attention_1h.png" target="_blank"><img src="charts/NEKO_02_attention_1h.png" loading="lazy" alt="NEKO_02_attention_1h.png"></a></figure><figure class="chart" data-token="NEKO" data-tf="4h"><figcaption>02_attention_4h<span class="tag">4h</span></figcaption><a href="charts/NEKO_02_attention_4h.png" target="_blank"><img src="charts/NEKO_02_attention_4h.png" loading="lazy" alt="NEKO_02_attention_4h.png"></a></figure><figure class="chart" data-token="NEKO" data-tf="1h"><figcaption>03_who_1h<span class="tag">1h</span></figcaption><a href="charts/NEKO_03_who_1h.png" target="_blank"><img src="charts/NEKO_03_who_1h.png" loading="lazy" alt="NEKO_03_who_1h.png"></a></figure><figure class="chart" data-token="NEKO" data-tf="4h"><figcaption>03_who_4h<span class="tag">4h</span></figcaption><a href="charts/NEKO_03_who_4h.png" target="_blank"><img src="charts/NEKO_03_who_4h.png" loading="lazy" alt="NEKO_03_who_4h.png"></a></figure><figure class="chart" data-token="NEKO" data-tf="1h"><figcaption>04_dynamics_1h<span class="tag">1h</span></figcaption><a href="charts/NEKO_04_dynamics_1h.png" target="_blank"><img src="charts/NEKO_04_dynamics_1h.png" loading="lazy" alt="NEKO_04_dynamics_1h.png"></a></figure><figure class="chart" data-token="NEKO" data-tf="4h"><figcaption>04_dynamics_4h<span class="tag">4h</span></figcaption><a href="charts/NEKO_04_dynamics_4h.png" target="_blank"><img src="charts/NEKO_04_dynamics_4h.png" loading="lazy" alt="NEKO_04_dynamics_4h.png"></a></figure><figure class="chart" data-token="NEKO" data-tf="1h"><figcaption>content_1h<span class="tag">1h</span></figcaption><a href="charts/NEKO_content_1h.png" target="_blank"><img src="charts/NEKO_content_1h.png" loading="lazy" alt="NEKO_content_1h.png"></a></figure><figure class="chart" data-token="NEKO" data-tf="1h"><figcaption>social_2d_1h<span class="tag">1h</span></figcaption><a href="charts/NEKO_social_2d_1h.png" target="_blank"><img src="charts/NEKO_social_2d_1h.png" loading="lazy" alt="NEKO_social_2d_1h.png"></a></figure></div>
 <div class="panel snapwrap md" data-token="CYBERLEEK"><table>
 <thead>
 <tr>
@@ -2430,7 +2430,7 @@ volume nor narrative source. Below every threshold the platform tracks; nothing 
 <p class="meta panel" data-token="NEKO" style="padding:.6rem 1rem">Note: no <b>05 streams</b> chart for NEKO — its plain-word stream is empty (nobody mentions it without the $cashtag), so only 4 charts exist per timeframe.</p>
 
 <script>
-const AVAIL={"CYBERLEEK": {"interactive": ["1h", "4h", "6h", "12h", "daily"], "static": ["1h", "4h", "6h", "12h", "daily", "special"]}, "STONKBROKER": {"interactive": ["1h", "4h", "6h", "12h", "daily"], "static": ["1h", "4h", "6h", "12h", "daily"]}, "YOMOGI": {"interactive": ["1h"], "static": ["1h"]}, "NEKO": {"interactive": ["1h", "4h"], "static": ["1h", "4h"]}};
+const AVAIL={"CYBERLEEK": {"interactive": ["1h", "4h", "6h", "12h", "daily"], "static": ["15m", "1h", "4h", "6h", "12h", "daily", "special"]}, "STONKBROKER": {"interactive": ["1h", "4h", "6h", "12h", "daily"], "static": ["1h", "4h", "6h", "12h", "daily"]}, "YOMOGI": {"interactive": ["1h"], "static": ["1h"]}, "NEKO": {"interactive": ["1h", "4h"], "static": ["1h", "4h"]}};
 const tokBtns=document.querySelectorAll('button.tok'),tfBtns=document.querySelectorAll('button.tf'),
 figs=document.querySelectorAll('figure.chart'),panels=document.querySelectorAll('[data-token].panel, .tokfigs'),
 count=document.getElementById('count');
@@ -2458,7 +2458,7 @@ function render(){
   wrap.style.display=inter?'':'none';figsBox.style.display=inter?'none':'';
   vwBtns.forEach(b=>b.classList.toggle('active',b.dataset.view===VIEW));
   if(inter){const tfi=(TF==='all'||TF==='special')?(avail.includes('4h')?'4h':avail[0]):TF;
-    const src='interactive/'+TOK+'_'+tfi+'.html?v=1787486199';
+    const src='interactive/'+TOK+'_'+tfi+'.html?v=1787506467';
     if(ifr.getAttribute('src')!==src)ifr.setAttribute('src',src);}
   count.textContent=TOK+' · '+(inter?'interactive':shown+' charts');
   history.replaceState(null,'','#'+TOK+':'+TF);
